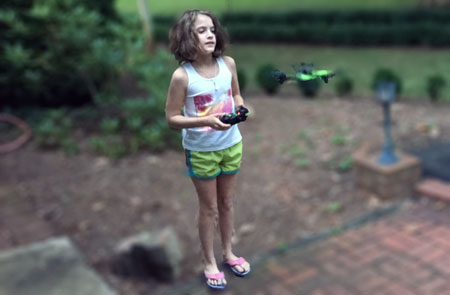
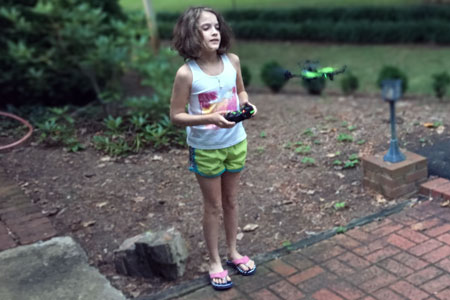
fixed typos in hobbies.html and changed drone photo

diff --git a/hobbies.html b/hobbies.html
@@ -31,7 +31,7 @@
            <img src="images/RubyOnARail.jpg" alt="Ruby, my chicken" />
            <figcaption>My chicken Ruby, on a rail</figcaption>
         </figure>
-        <p>I love and hang out with my daughter, my cat Zoe, and my chicken Ruby. While there isn't too many things that can be done with guy, a nine year old girl, a cat, and a chicken all together we manage to still have fun.</p>
+        <p>I love and hang out with my daughter, my cat Zoe, and my chicken Ruby. While there aren't too many things that can be done with a guy, a nine year old girl, a cat, and a chicken all together we manage to still have fun.</p>
         <figure>
            <img src="images/Flying-a-drone.jpg" alt="A girl flying a drone" />
            <figcaption>My daughter flying a Sky Viper drone</figcaption>
@@ -42,19 +42,19 @@
 
       <div class="card">
         <h2>Typical Day</h2>
-        <p>A Typical day for me involves first getting up... Its the hardest part! After that I get my daughter ready for school and
+        <p>A Typical day for me involves first getting up... It's the hardest part! After that I get my daughter ready for school and
         get myself ready for work for my cleaning business, Sparklean. After spending most of the day stripping floors or cleaning 
         toilets (yech!) I come home and handle the administrative side of running a business.</p>
-        <p>Whew! Sparklean is done for the day. Now its time to spent some play time with my daughter as well as help with any homework
-        thats due. After that its on the computer again to work towards my techdegree.  Do that for a couple hours, maybe fly a drone 
-        or two on breaks, and then its dinner time.</p>
-        <p>After dinner its study some more until DC on CW time. My duaghter and I keep up with <em>Arrow</em>, <em>Flash</em>, <em>Supergirl</em>, and <em>Legends of Tomorrow</em></p> 
+        <p>Whew! Sparklean is done for the day. Now it's time to spend some play time with my daughter as well as help with any homework
+        thats due. After that it's on the computer again to work towards my techdegree.  Do that for a couple hours, maybe fly a drone 
+        or two on breaks, and then it's dinner time.</p>
+        <p>After dinner it's study some more until DC on CW time. My daughter and I keep up with <em>Arrow</em>, <em>Flash</em>, <em>Supergirl</em>, and <em>Legends of Tomorrow</em></p> 
         <figure>
            <img src="images/Arrow-DC.jpg" alt="Stephen Amell as DC's Arrow" />
            <figcaption>Arrow, our favorite hero in the multiverse</figcaption>
         </figure>
 
-        <p>After TV, its time to head to bed and get ready to do it all over the next day.</p>
+        <p>After TV, it's time to head to bed and get ready to do it all over again the next day.</p>
       </div> 
 
     </main>
